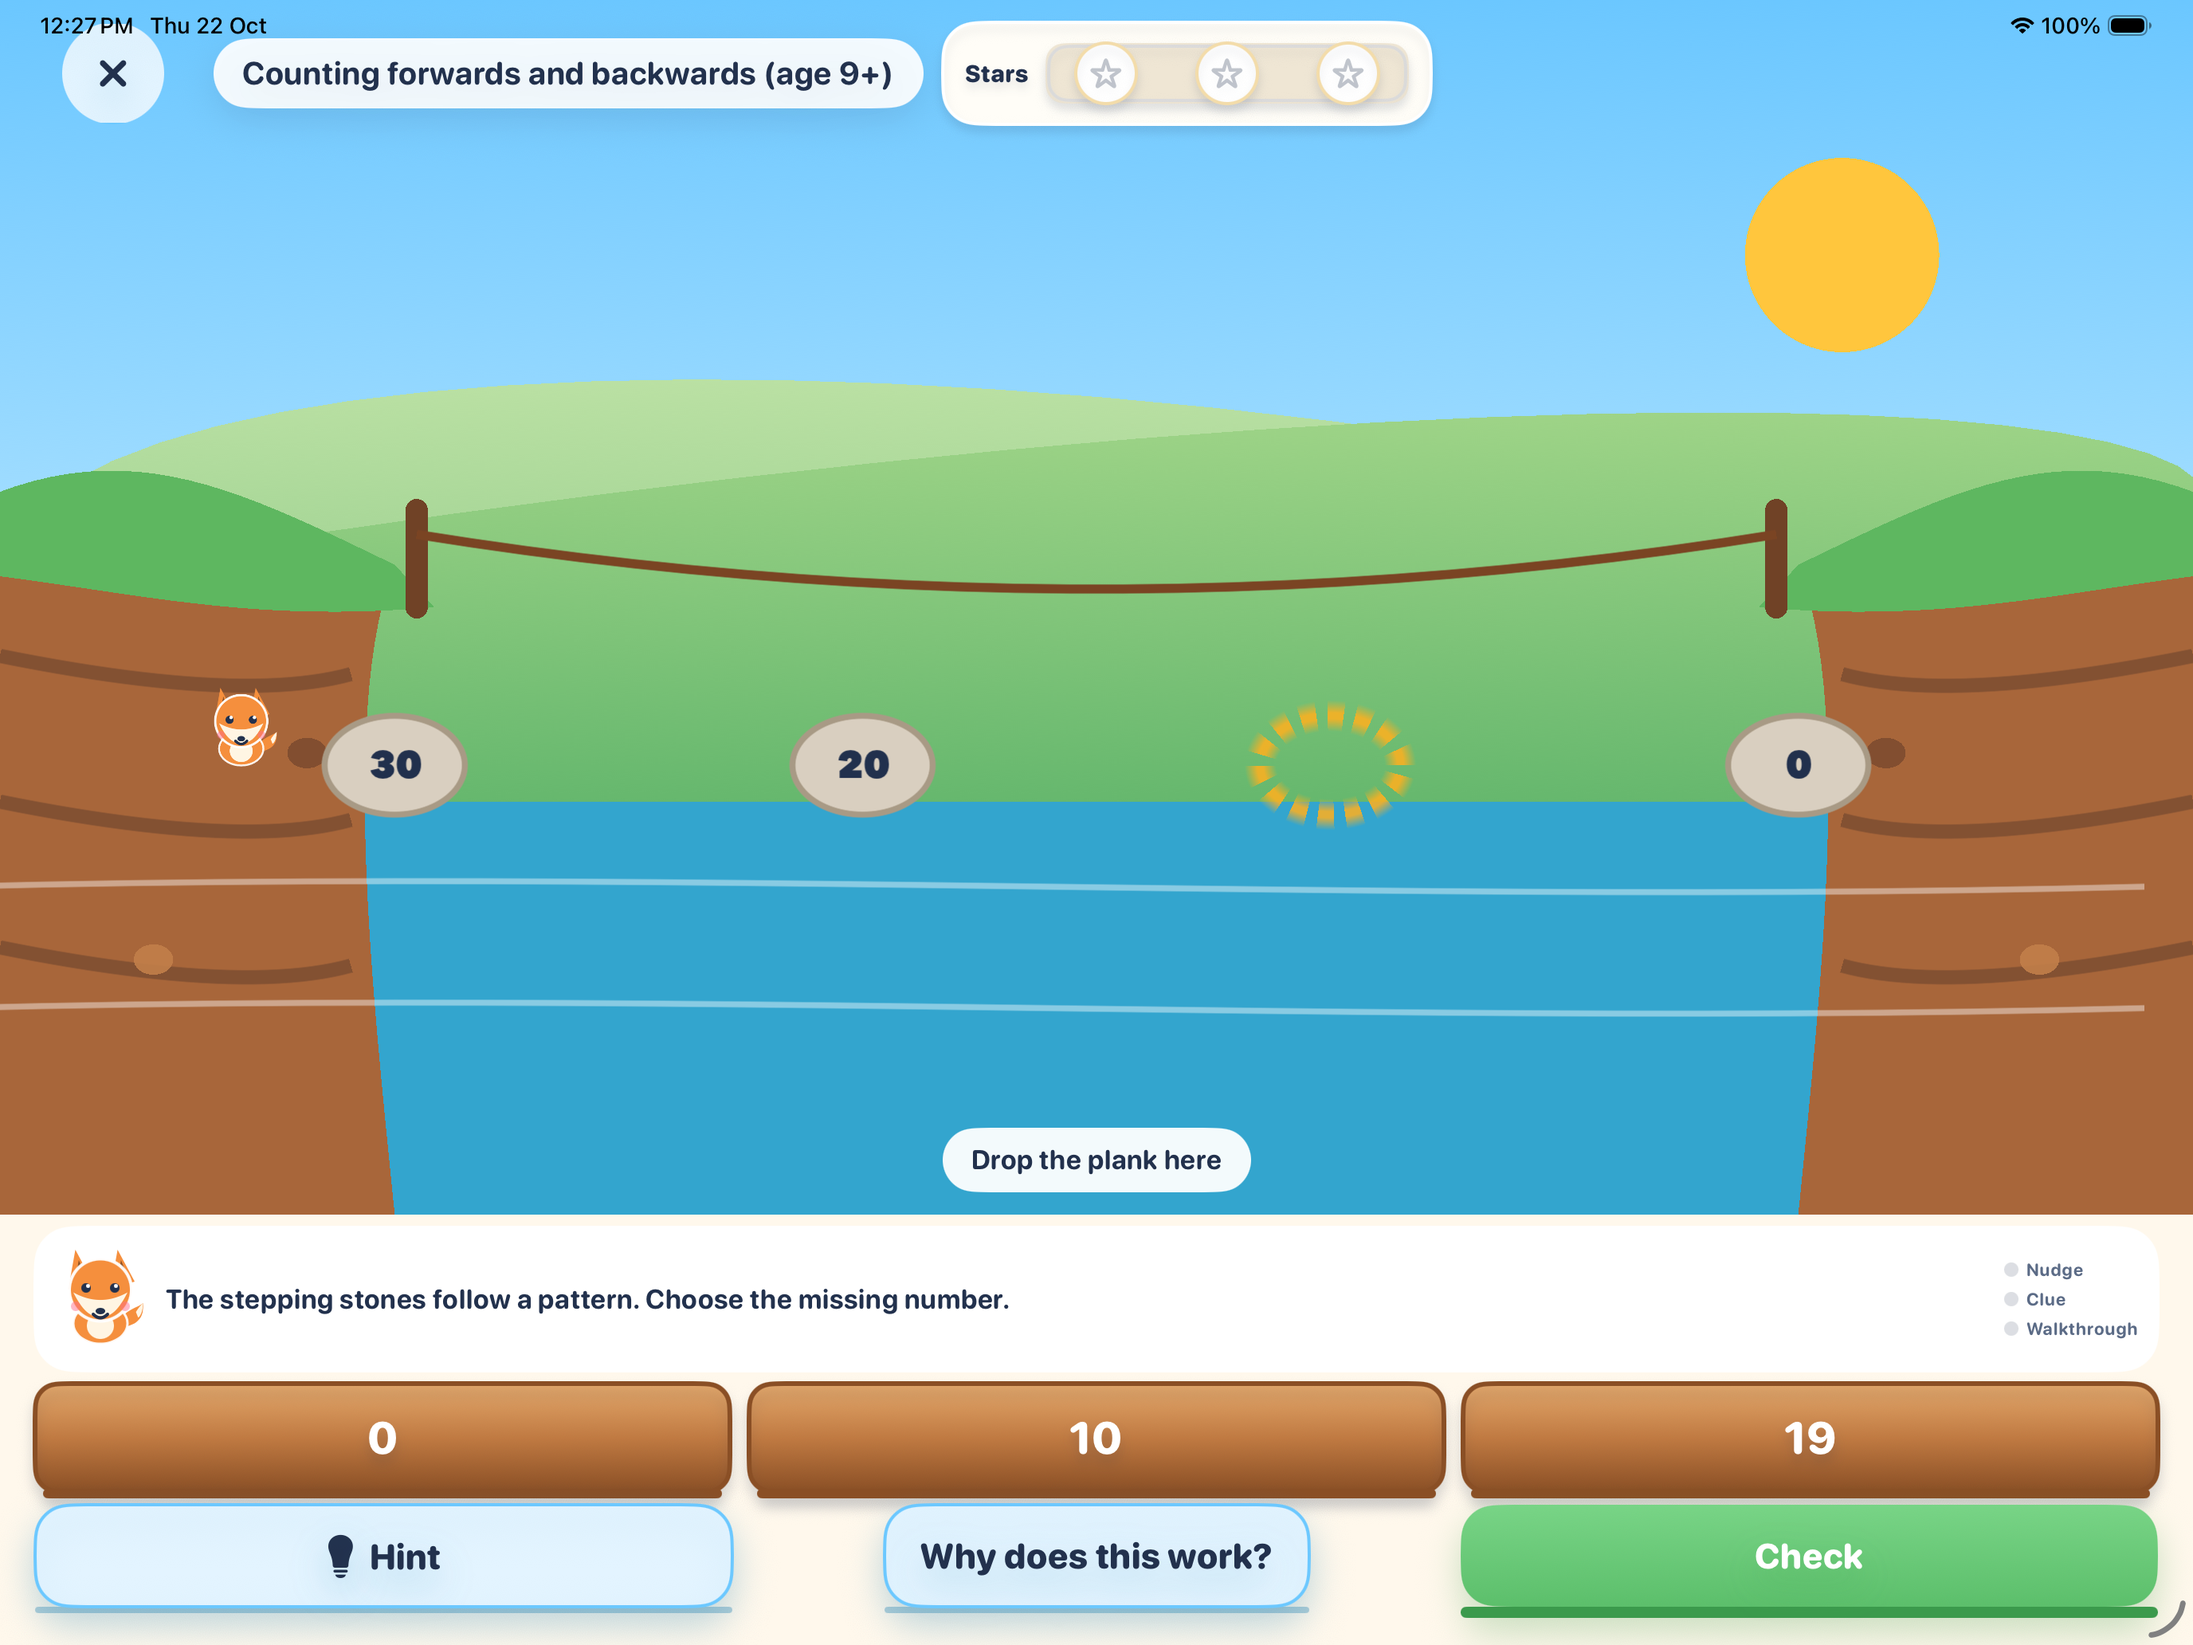
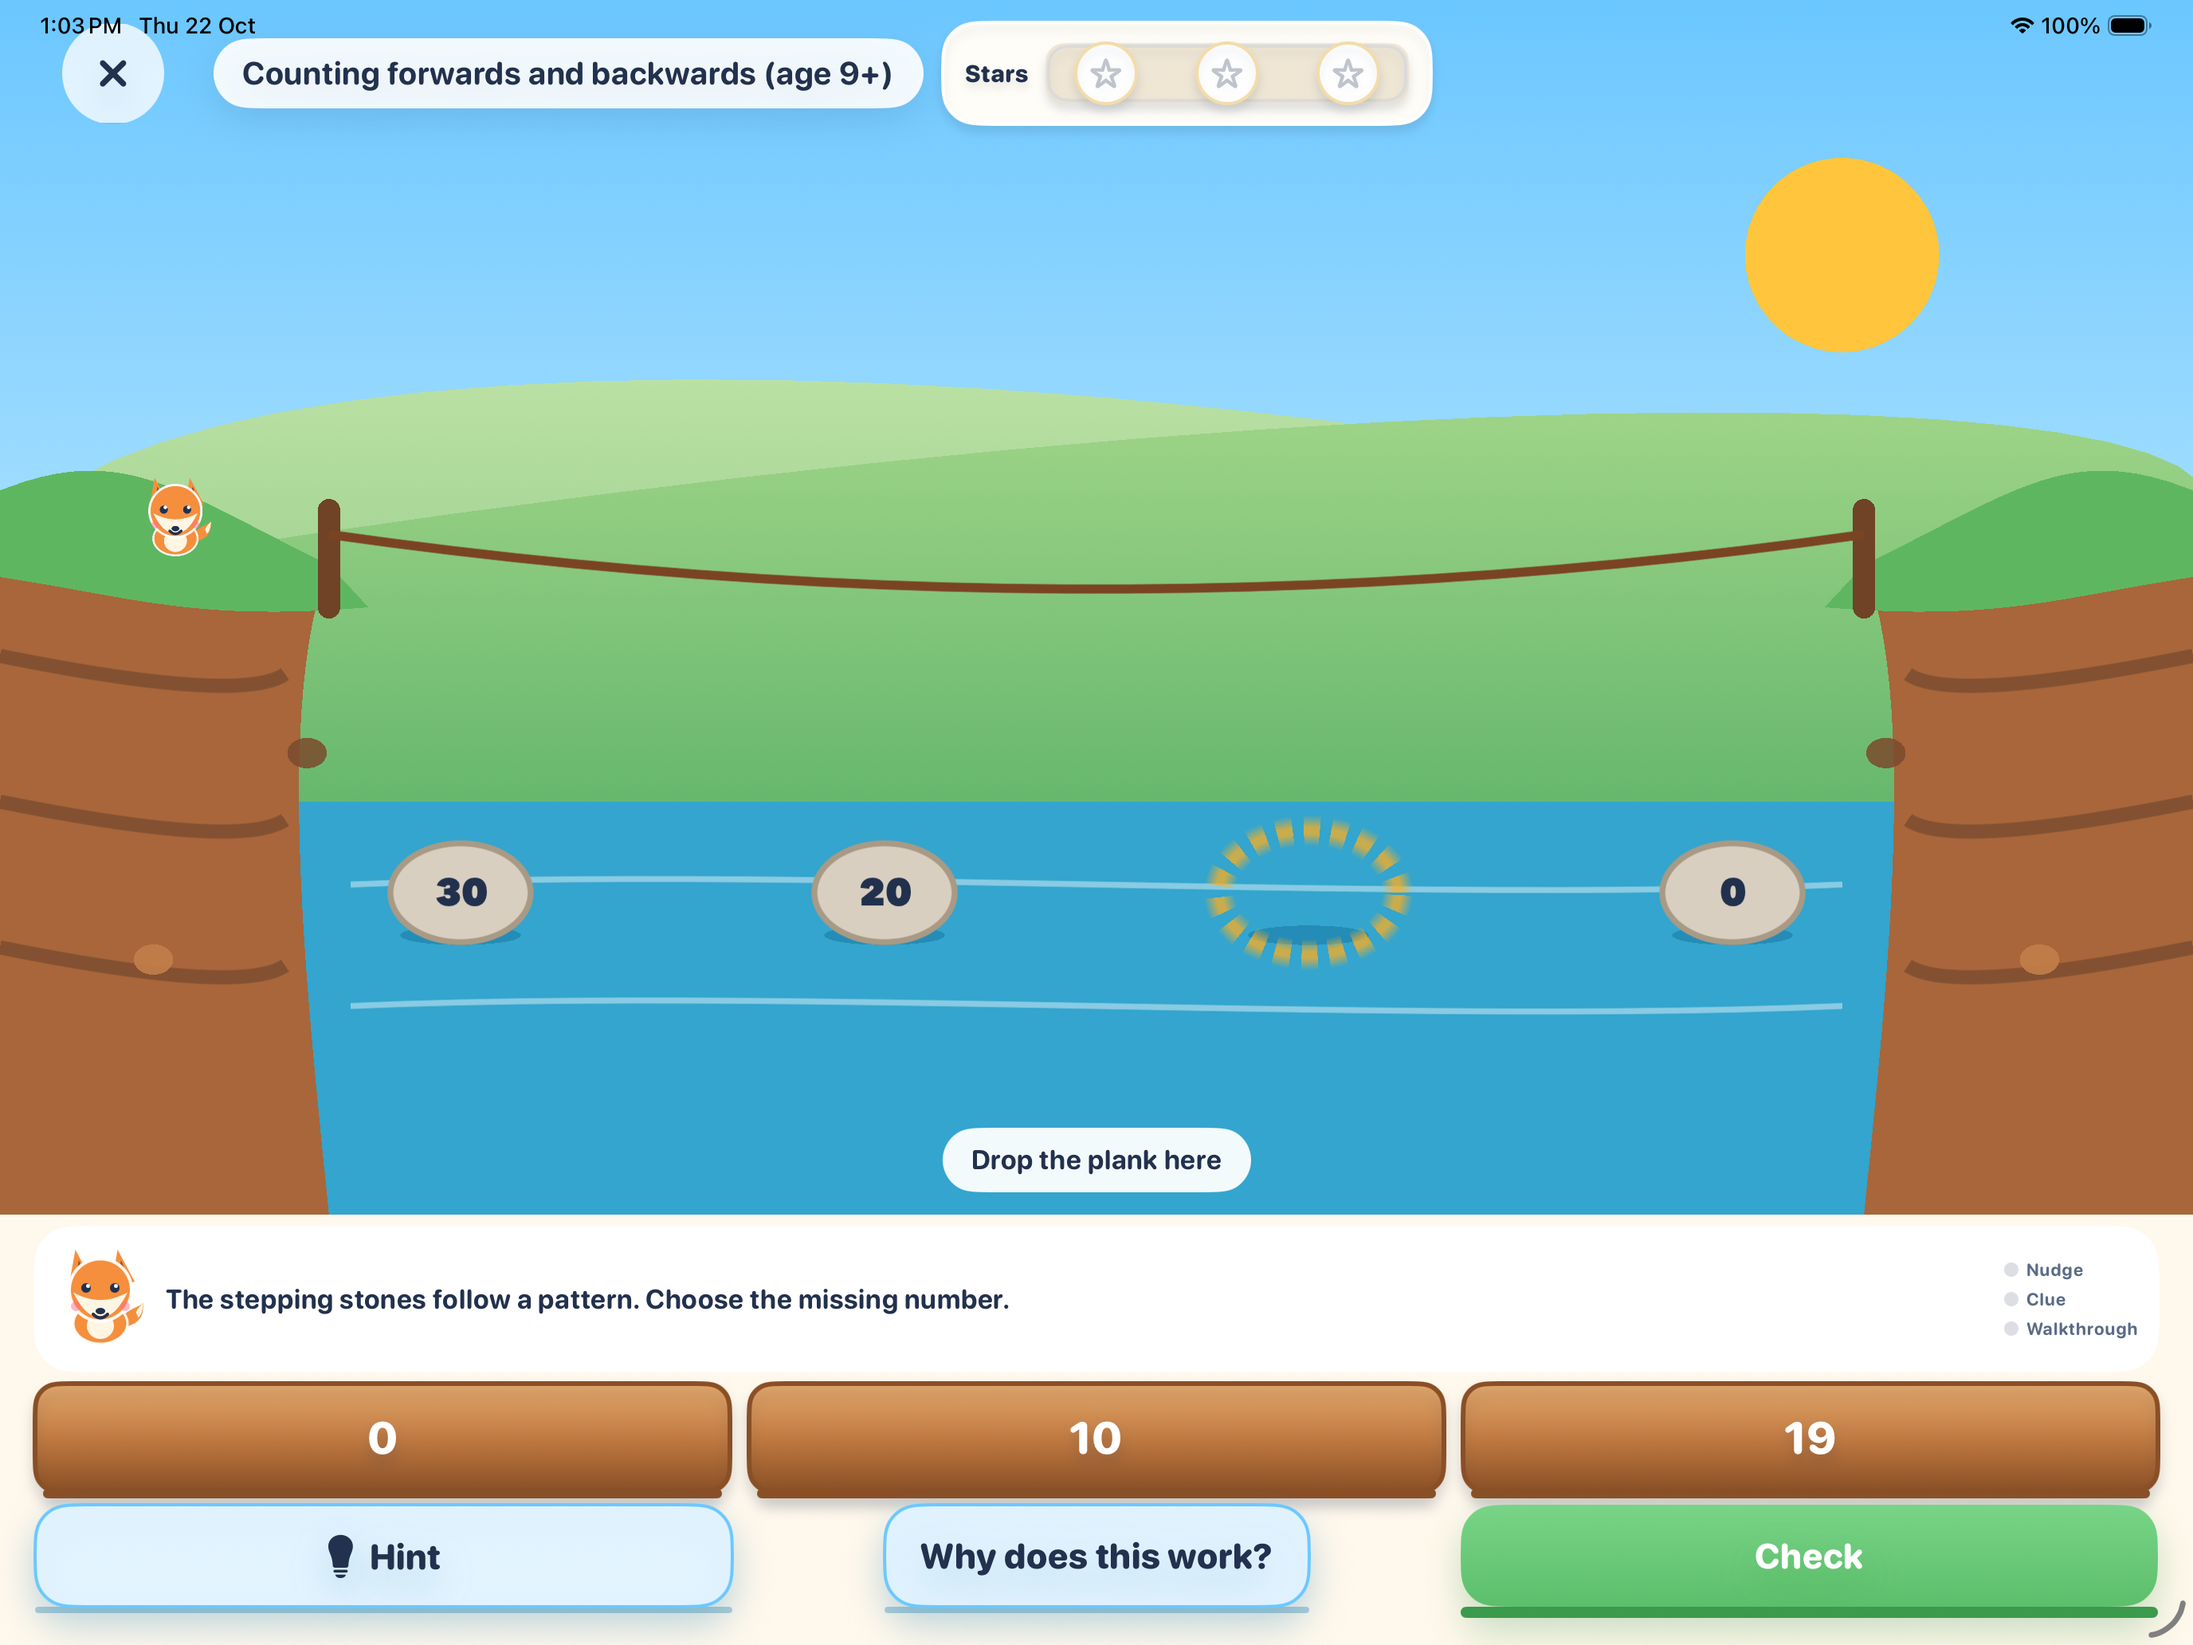
WonderMath: fix bridge geometry and refresh screenshots

Changed region(s): [[0.0, 0.2791, 0.6562, 0.7442], [0.625, 0.2791, 0.9688, 0.7442], [0.0312, 0.0, 0.125, 0.031]]

diff --git a/apps/WonderMath/WonderMath/Game/BridgeScene.swift b/apps/WonderMath/WonderMath/Game/BridgeScene.swift
@@ -144,14 +144,32 @@ final class BridgeScene: SKScene {
                     addGap(at: point, width: spacing - 8, height: 66)
                 }
             }
-            addCompanion(at: CGPoint(x: -size.width * 0.39, y: -size.height * 0.10))
+            addCompanionOnLeftCliff()
         case .sequence(let terms):
             resetScene(sequence: true)
-            let spacing = terms.count > 1 ? size.width * 0.64 / CGFloat(terms.count - 1) : 0
+            let stoneInset = size.width * 0.06
+            let leftStoneX = -size.width * 0.35 + stoneInset
+            let rightStoneX = size.width * 0.35 - stoneInset
+            let spacing = terms.count > 1
+                ? (rightStoneX - leftStoneX) / CGFloat(terms.count - 1)
+                : 0
+            let stoneY = -size.height * 0.235
             for (index, term) in terms.enumerated() {
-                let x = -size.width * 0.32 + CGFloat(index) * spacing
-                let stone = SKShapeNode(ellipseOf: CGSize(width: 88, height: 62))
-                stone.position = CGPoint(x: x, y: -size.height * 0.13)
+                let x = leftStoneX + CGFloat(index) * spacing
+                let point = CGPoint(x: x, y: stoneY)
+                let ripple = SKShapeNode(ellipseOf: CGSize(width: size.width * 0.055,
+                                                           height: size.height * 0.016))
+                ripple.position = CGPoint(x: x, y: stoneY - size.height * 0.035)
+                ripple.fillColor = SKColor(red: 0.12, green: 0.51, blue: 0.68, alpha: 0.72)
+                ripple.strokeColor = .clear
+                ripple.zPosition = 1
+                addChild(ripple)
+                let stoneSize = term == nil
+                    ? CGSize(width: 112, height: 78)
+                    : CGSize(width: 88, height: 62)
+                let stone = SKShapeNode(ellipseOf: stoneSize)
+                stone.position = point
+                stone.zPosition = 2
                 stone.fillColor = term == nil ? .clear :
                     SKColor(red: 0.851, green: 0.812, blue: 0.753, alpha: 1)
                 stone.strokeColor = term == nil ? .clear :
@@ -165,7 +183,7 @@ final class BridgeScene: SKScene {
                     styleGap(stone)
                 }
             }
-            addCompanion(at: CGPoint(x: -size.width * 0.39, y: -size.height * 0.10))
+            addCompanionOnLeftCliff()
         }
         if let filledValue {
             fill(gapWith: filledValue)
@@ -212,17 +230,18 @@ final class BridgeScene: SKScene {
         water.fillColor = SKColor(red: 0.20, green: 0.65, blue: 0.81, alpha: 1)
         water.strokeColor = .clear
         addChild(water)
+        let innerCliffEdgeX = size.width * 0.35
         for side: CGFloat in [-1, 1] {
             addCliff(side: side)
             let post = SKShapeNode(rectOf: CGSize(width: 14, height: 75), cornerRadius: 7)
-            post.position = CGPoint(x: side * size.width * 0.31, y: size.height * 0.04)
+            post.position = CGPoint(x: side * innerCliffEdgeX, y: size.height * 0.04)
             post.fillColor = SKColor(red: 0.44, green: 0.26, blue: 0.15, alpha: 1)
             post.strokeColor = .clear
             addChild(post)
         }
         let ropePath = CGMutablePath()
-        ropePath.move(to: CGPoint(x: -size.width * 0.31, y: size.height * 0.06))
-        ropePath.addQuadCurve(to: CGPoint(x: size.width * 0.31, y: size.height * 0.06),
+        ropePath.move(to: CGPoint(x: -innerCliffEdgeX, y: size.height * 0.06))
+        ropePath.addQuadCurve(to: CGPoint(x: innerCliffEdgeX, y: size.height * 0.06),
                               control: CGPoint(x: 0, y: -size.height * 0.03))
         let rope = SKShapeNode(path: ropePath)
         rope.strokeColor = SKColor(red: 0.48, green: 0.27, blue: 0.14, alpha: 1)
@@ -231,17 +250,18 @@ final class BridgeScene: SKScene {
         for row in 0..<2 {
             let wavePath = CGMutablePath()
             let y = -size.height * (0.23 + CGFloat(row) * 0.10)
-            wavePath.move(to: CGPoint(x: -size.width * 0.5, y: y))
-            wavePath.addCurve(to: CGPoint(x: size.width * 0.5, y: y),
-                              control1: CGPoint(x: -size.width * 0.16, y: y + 12),
-                              control2: CGPoint(x: size.width * 0.16, y: y - 12))
+            let waveEdgeX = innerCliffEdgeX - size.width * 0.01
+            wavePath.move(to: CGPoint(x: -waveEdgeX, y: y))
+            wavePath.addCurve(to: CGPoint(x: waveEdgeX, y: y),
+                              control1: CGPoint(x: -size.width * 0.14, y: y + 12),
+                              control2: CGPoint(x: size.width * 0.14, y: y - 12))
             let wave = SKShapeNode(path: wavePath)
             wave.strokeColor = .white.withAlphaComponent(0.42)
             wave.lineWidth = 4
             addChild(wave)
             if !reduceMotion {
-                wave.run(.repeatForever(.sequence([.moveBy(x: -100, y: 0, duration: 6),
-                                                   .moveBy(x: 100, y: 0, duration: 6)])))
+                wave.run(.repeatForever(.sequence([.moveBy(x: 0, y: 2, duration: 3),
+                                                   .moveBy(x: 0, y: -2, duration: 3)])))
             }
         }
     }
@@ -268,7 +288,7 @@ final class BridgeScene: SKScene {
 
     private func addCliff(side: CGFloat) {
         let outerX = side * size.width * 0.53
-        let innerX = side * size.width * 0.32
+        let innerX = side * size.width * 0.35
         let outerY = size.height * 0.07
         let innerY = size.height * 0.035
         let control1 = CGPoint(x: outerX - side * size.width * 0.08,
@@ -444,6 +464,11 @@ final class BridgeScene: SKScene {
         sprite.zPosition = 12
         addChild(sprite)
         companionNode = sprite
+    }
+
+    private func addCompanionOnLeftCliff() {
+        let footY = size.height * 0.01
+        addCompanion(at: CGPoint(x: -size.width * 0.42, y: footY + 48))
     }
 
     private func gradientTexture(size: CGSize, colors: [SKColor]) -> SKTexture {

diff --git a/apps/WonderMath/README.md b/apps/WonderMath/README.md
@@ -142,7 +142,7 @@ Captured on the iPad Pro 13-inch (M5) simulator (iOS 26.5), landscape.
 
 **Number Kingdom path:** [initial path](docs/screenshots/03-topic-path.png) · [castle end](docs/screenshots/03b-topic-path-end.png)
 
-**Bridge puzzle:** [equation bridge](docs/screenshots/04-bridge-puzzle.png) · [stepping stones](docs/screenshots/04b-stepping-stones.png) · [wrong answer](docs/screenshots/05-gentle-feedback.png) · [Walkthrough hint](docs/screenshots/06-hint-walkthrough.png) · [Why does this work?](docs/screenshots/07-why-does-this-work.png) · [filled bridge](docs/screenshots/20-bridge-solved.png)
+**Bridge puzzle:** [equation bridge](docs/screenshots/04-bridge-puzzle.png) · [stepping stones](docs/screenshots/04b-stepping-stones.png) · [wrong answer](docs/screenshots/05-gentle-feedback.png) · [Walkthrough hint](docs/screenshots/06-hint-walkthrough.png) · [Why does this work?](docs/screenshots/07-why-does-this-work.png) · [solved bridge](docs/screenshots/20-bridge-solved.png)
 
 **Rewards:** [solved puzzle](docs/screenshots/08-reward.png) · [treasure chest](docs/screenshots/09-treasure-chest.png) · [star meter](docs/screenshots/23-star-meter.png)
 
